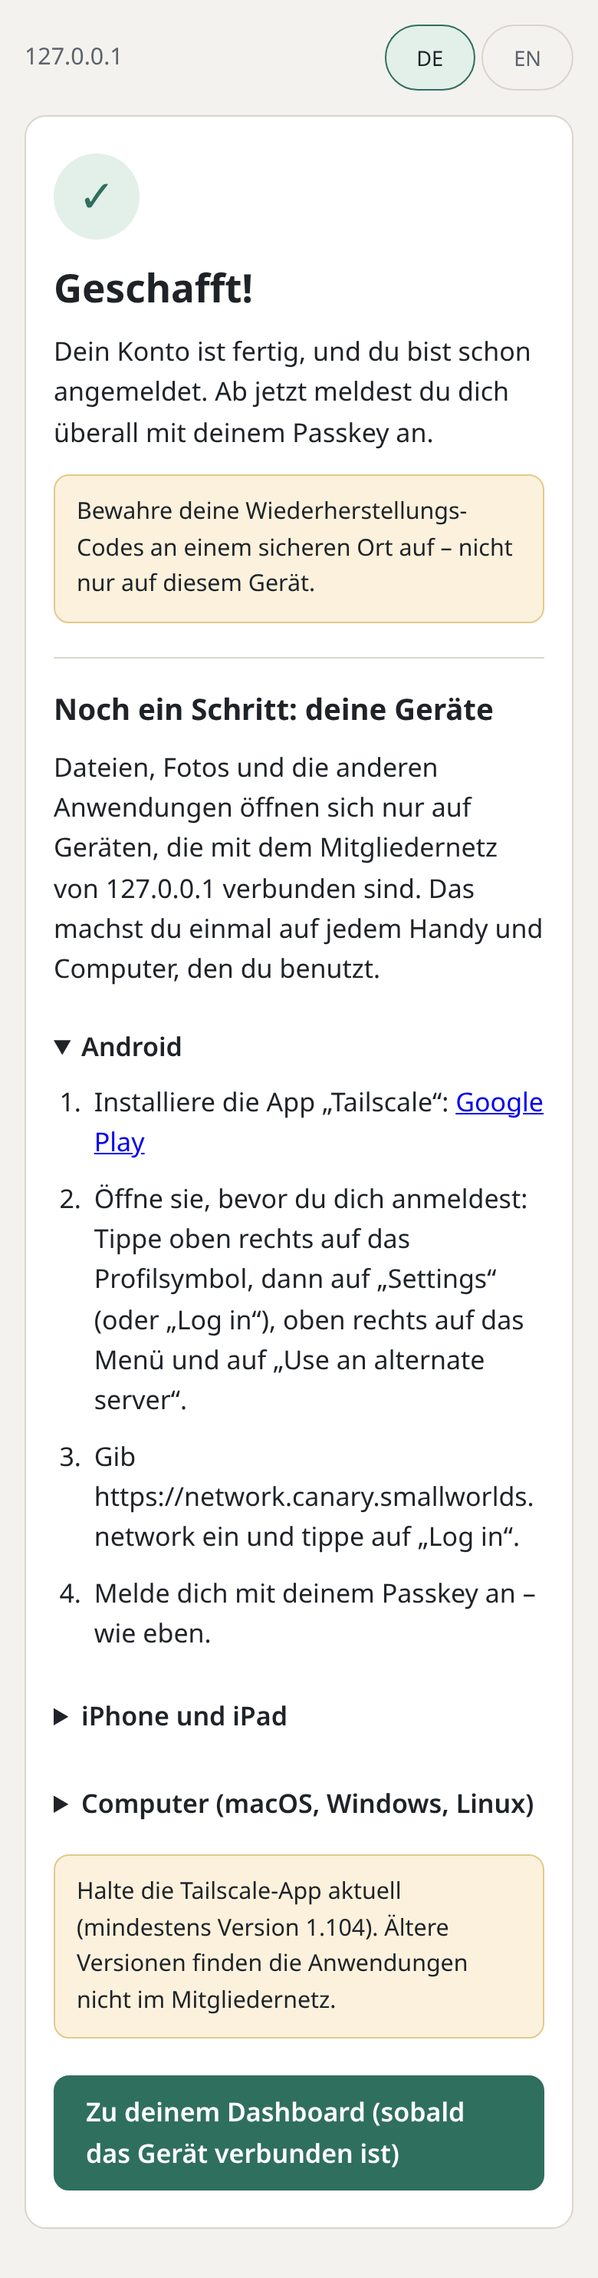
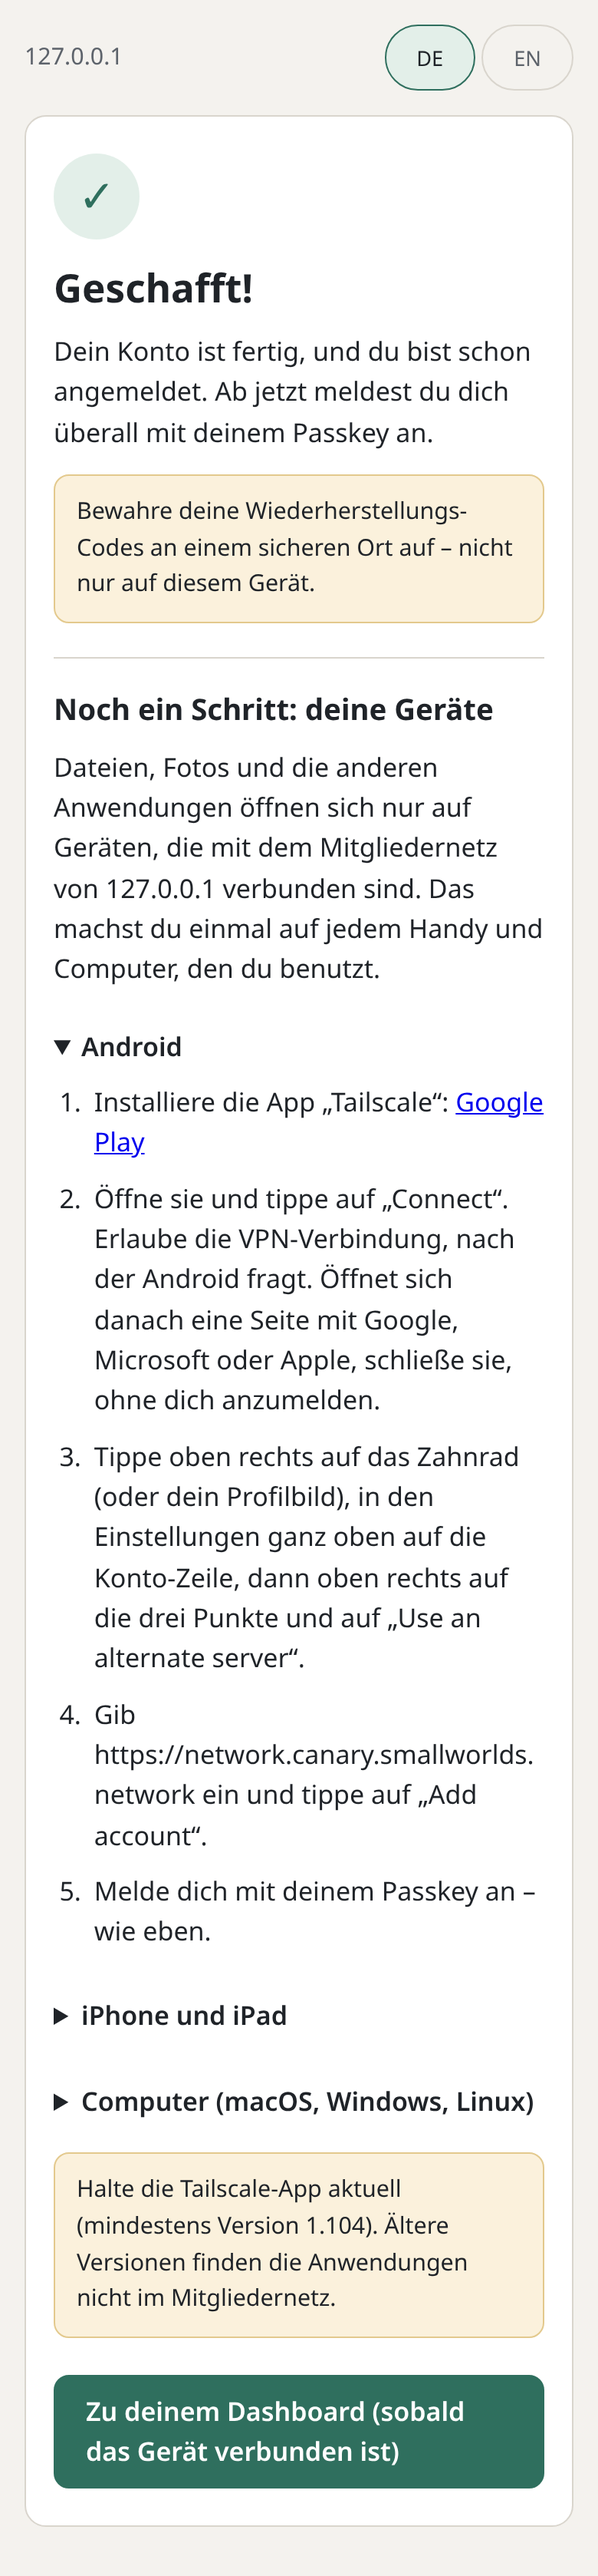
Restart join when its settings change, and correct the Android steps
Found with a real phone on Ring 0 (ADR 0066, issue 09):

- join reads join-config only when it starts, so the overlay's
  MEMBER_NETWORK_URL reached the ConfigMap but not the page until join was
  restarted by hand. join-config is now generated from join-config.properties:
  its name carries a hash of the content, an overlay's patch included, and a
  change restarts the pod.
- Tailscale's Android app (1.104) offers "Use an alternate server" only after
  "Connect" and the VPN permission, through Settings, the account row and the
  menu, and its button is "Add account". The done page now says so.

diff --git a/infrastructure/kubernetes/tenants/join/static/i18n.js b/infrastructure/kubernetes/tenants/join/static/i18n.js
@@ -79,7 +79,9 @@ window.JOIN_TEXT = {
     "mn.store.play": "Google Play",
     "mn.store.apple": "App Store",
     "mn.store.download": "tailscale.com/download",
-    "mn.android.server": "Öffne sie, bevor du dich anmeldest: Tippe oben rechts auf das Profilsymbol, dann auf „Settings“ (oder „Log in“), oben rechts auf das Menü und auf „Use an alternate server“.",
+    "mn.android.connect": "Öffne sie und tippe auf „Connect“. Erlaube die VPN-Verbindung, nach der Android fragt. Öffnet sich danach eine Seite mit Google, Microsoft oder Apple, schließe sie, ohne dich anzumelden.",
+    "mn.android.server": "Tippe oben rechts auf das Zahnrad (oder dein Profilbild), in den Einstellungen ganz oben auf die Konto-Zeile, dann oben rechts auf die drei Punkte und auf „Use an alternate server“.",
+    "mn.android.enter": "Gib {server} ein und tippe auf „Add account“.",
     "mn.ios.server": "Öffne sie, bevor du dich anmeldest: Tippe oben rechts auf das Profilsymbol, dann auf „Settings“ (oder „Log in“), oben rechts auf das Menü und auf „Use a custom coordination server“.",
     "mn.enter": "Gib {server} ein und tippe auf „Log in“.",
     "mn.computer.command": "Öffne nach der Installation ein Terminal (unter Windows die Eingabeaufforderung) und gib ein:",
@@ -165,7 +167,9 @@ window.JOIN_TEXT = {
     "mn.store.play": "Google Play",
     "mn.store.apple": "App Store",
     "mn.store.download": "tailscale.com/download",
-    "mn.android.server": "Open it before you sign in: tap the profile icon at the top right, then “Settings” (or “Log in”), the menu at the top right, and “Use an alternate server”.",
+    "mn.android.connect": "Open it and tap “Connect”. Allow the VPN connection Android asks for. If a page with Google, Microsoft or Apple opens after that, close it without signing in.",
+    "mn.android.server": "Tap the gear (or your profile picture) at the top right, the account row at the very top of Settings, then the three dots at the top right, and “Use an alternate server”.",
+    "mn.android.enter": "Enter {server} and tap “Add account”.",
     "mn.ios.server": "Open it before you sign in: tap the profile icon at the top right, then “Settings” (or “Log in”), the menu at the top right, and “Use a custom coordination server”.",
     "mn.enter": "Enter {server} and tap “Log in”.",
     "mn.computer.command": "After installing it, open a terminal (on Windows, the Command Prompt) and enter:",

diff --git a/infrastructure/kubernetes/tenants/join/static/done.html b/infrastructure/kubernetes/tenants/join/static/done.html
@@ -34,8 +34,9 @@
         <ol class="steps">
           <li><span data-t="mn.install"></span>
             <a href="https://play.google.com/store/apps/details?id=com.tailscale.ipn" rel="noopener" data-t="mn.store.play"></a></li>
+          <li data-t="mn.android.connect"></li>
           <li data-t="mn.android.server"></li>
-          <li data-t="mn.enter"></li>
+          <li data-t="mn.android.enter"></li>
           <li data-t="mn.passkey"></li>
         </ol>
       </details>

diff --git a/doc/tenant-join.md b/doc/tenant-join.md
@@ -67,8 +67,13 @@ against a local Keycloak; the recovery codes are from that throwaway instance.
    Headscale's own `/apple` and `/windows` guides). It learns the address from
    `MEMBER_NETWORK_URL` in `join-config`, which
    `admin-tools/generate_member_network_patches.py` sets; empty means off.
-   The app labels come from Tailscale's documentation (2026-09); check them when
-   a member reports a menu that is not there.
+   `join-config` is generated from `join-config.properties`, so a changed value
+   restarts join: it reads its settings only at start.
+   On Android (Tailscale 1.104) "Use an alternate server" is reachable only
+   after "Connect" and the VPN permission, through Settings, the account row
+   and the menu; found with a real phone on Ring 0 (2026-11-20). The iPhone
+   labels come from Tailscale's documentation (2026-09) and have not been
+   tried; check them when a member reports a menu that is not there.
 
    <img src="../docs/join-flow-de-5-done-member-network.png" alt="The done page with the Member Network on, as an Android phone sees it" width="320">
 

diff --git a/docs/adr/0066-member-applications-can-sit-on-a-member-network-chosen-at-install.md b/docs/adr/0066-member-applications-can-sit-on-a-member-network-chosen-at-install.md
@@ -327,8 +327,15 @@ dashboard, with the community's server address filled in.
 
 Not yet proven:
 
-- A new member reaching Files on a phone from an invitation alone (issue 09's
-  proof), and a mail app through the gateway's 465 and 993.
+- A mail app through the gateway's 465 and 993, and an iPhone.
+
+Proven on Ring 0 with an Android phone (2026-11-20): from an invitation alone,
+a new member registered a passkey, connected the Tailscale app (1.104.6) to the
+member Headscale by following the done page, and opened Files. It also showed
+two faults, both fixed since: join kept its old settings until restarted, and
+Android offers "Use an alternate server" only after the VPN permission, which
+the steps did not say. Deleting that member in Keycloak then removed the phone
+from the Member Network at the reconciler's next run.
 
 - Upload speed when a member's device cannot connect to the node directly and
   falls back to a DERP relay.
